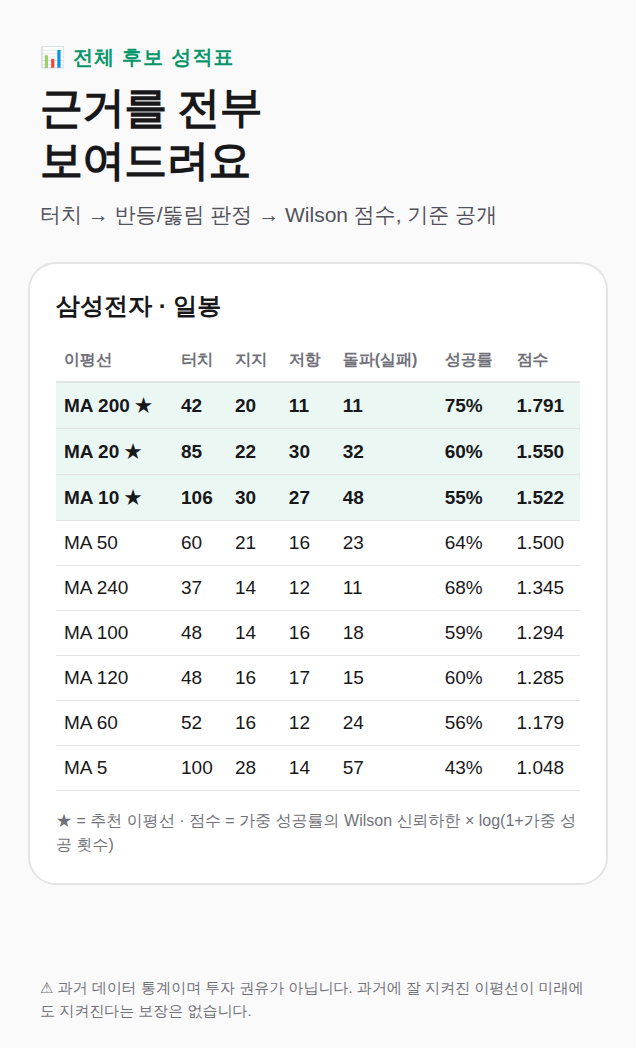
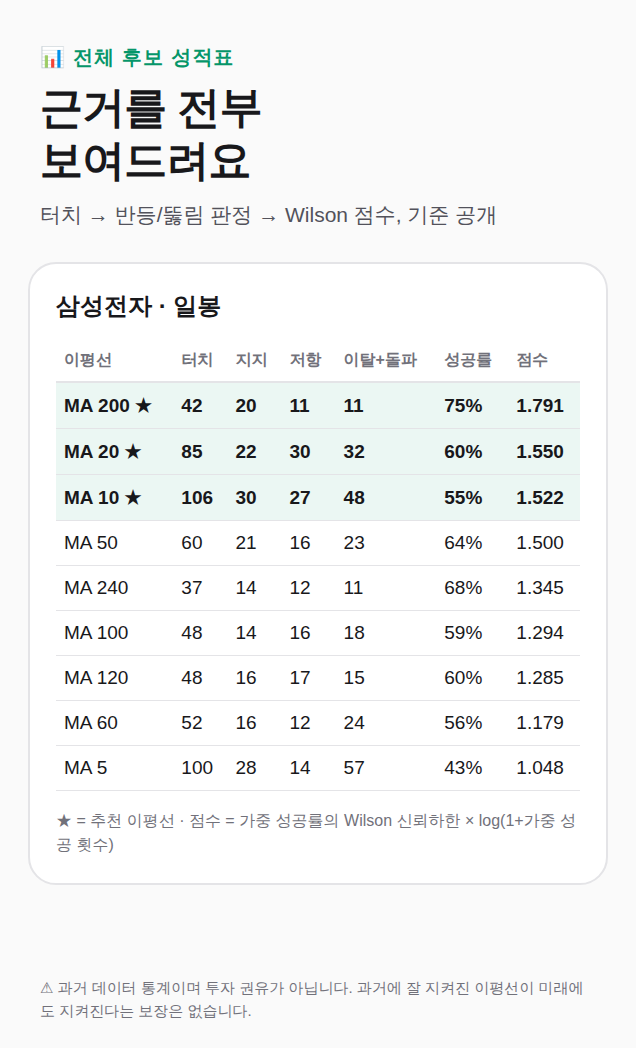
화면 최종 점검 반영: 좁은 폰 레이아웃·문구 일관성·터치 영역 개선
멀티 관점 리뷰에서 확정된 지적을 수정:
- RadarPage 헤더 좌측 View 에 flexShrink 추가 — 좁은 폰에서 부제가
  '지지선 터치' 버튼을 밀어내던 문제 (screener 와 동일 패턴으로 통일)
- 검색 자동완성 행: 종목명 flexShrink:1 / 코드 flexShrink:0 로,
  긴 종목명이 코드·시장 표기를 밀어내지 않게
- 성적표 컬럼 '돌파(실패)' → '이탈+돌파' — 카드의 '돌파'(상승 신호)와
  의미가 충돌하던 라벨 정리 (스크린샷 스크립트 헤더도 동일 반영)
- 홈 이동 버튼 '오늘의 터치' → '지지선 터치' — 화면 제목과 명칭 통일
- 스크리너 '새로고침'·'이평선 분석 →' 링크에 hitSlop 추가 (터치 영역 확대)
- 성적표 라벨 변경으로 portrait-2-score 스크린샷 재생성

Claude-Session: https://claude.ai/code/session_01SVmEkbyC5jMVqJE4APrx2j

diff --git a/apps-in-toss/src/pages/index.tsx b/apps-in-toss/src/pages/index.tsx
@@ -224,7 +224,7 @@ function RadarPage() {
       keyboardShouldPersistTaps="handled"
     >
       <View style={{ flexDirection: 'row', alignItems: 'center', justifyContent: 'space-between' }}>
-        <View>
+        <View style={{ flexShrink: 1, paddingRight: 8 }}>
           <Text style={{ fontSize: 22, fontWeight: '800', color: p.text }}>📈 이평선 레이더</Text>
           <Text style={{ fontSize: 12, color: p.sub, marginTop: 2 }}>
             자주 지켜진 지지/저항 이평선을 백테스트로 찾아드려요
@@ -242,7 +242,7 @@ function RadarPage() {
             paddingHorizontal: 10,
           }}
         >
-          <Text style={{ fontSize: 12, color: p.text, fontWeight: '600' }}>🚨 오늘의 터치</Text>
+          <Text style={{ fontSize: 12, color: p.text, fontWeight: '600' }}>🚨 지지선 터치</Text>
         </TouchableOpacity>
       </View>
 
@@ -281,10 +281,10 @@ function RadarPage() {
                   backgroundColor: p.card,
                 }}
               >
-                <Text style={{ fontSize: 14, color: p.text }} numberOfLines={1}>
+                <Text style={{ fontSize: 14, color: p.text, flexShrink: 1, marginRight: 8 }} numberOfLines={1}>
                   {item.name}
                 </Text>
-                <Text style={{ fontSize: 12, color: p.faint }}>
+                <Text style={{ fontSize: 12, color: p.faint, flexShrink: 0 }} numberOfLines={1}>
                   {item.symbol}
                   {item.market ? ` · ${item.market}` : ''}
                 </Text>

diff --git a/apps-in-toss/src/pages/screener.tsx b/apps-in-toss/src/pages/screener.tsx
@@ -237,7 +237,11 @@ function ScreenerPage() {
           <View style={{ flexDirection: 'row', alignItems: 'center', justifyContent: 'space-between' }}>
             <Text style={{ fontSize: 11, color: p.faint, flexShrink: 1 }}>{statusText(body)}</Text>
             {!body.partial && !body.refreshing ? (
-              <TouchableOpacity onPress={() => void load(market, false)} accessibilityRole="button">
+              <TouchableOpacity
+                onPress={() => void load(market, false)}
+                accessibilityRole="button"
+                hitSlop={{ top: 10, bottom: 10, left: 10, right: 10 }}
+              >
                 <Text style={{ fontSize: 12, color: p.indigo, fontWeight: '600' }}>새로고침</Text>
               </TouchableOpacity>
             ) : null}
@@ -304,7 +308,11 @@ function ScreenerPage() {
                   colors={{ up: p.up, down: p.down, grid: p.grid, text: p.faint }}
                   showPriceAxis={false}
                 />
-                <TouchableOpacity onPress={() => openRadar(m)} accessibilityRole="button">
+                <TouchableOpacity
+                  onPress={() => openRadar(m)}
+                  accessibilityRole="button"
+                  hitSlop={{ top: 10, bottom: 10, left: 10, right: 10 }}
+                >
                   <Text style={{ fontSize: 13, color: p.indigo, fontWeight: '600' }}>이평선 분석 →</Text>
                 </TouchableOpacity>
               </Card>

diff --git a/apps-in-toss/src/components/ScoreTable.tsx b/apps-in-toss/src/components/ScoreTable.tsx
@@ -12,14 +12,15 @@ interface Props {
   palette: Palette;
 }
 
-// '돌파(실패)' = 위/아래로 뚫린 횟수 합계 — 웹 성적표와 같은 표기.
-// 카드의 '돌파'(저항을 위로 뚫음, 상승성)와 헷갈리지 않게 (실패)를 꼭 붙인다.
+// '이탈+돌파' = 위/아래로 뚫린 횟수 합계. 추천 카드는 지지 이탈(하락)을 '이탈',
+// 저항 돌파(상승)를 '돌파'로 따로 표기하므로, 그 둘의 합계인 이 열도 '이탈+돌파'로
+// 불러 카드와 용어를 맞춘다('돌파' 단독으로 쓰면 카드의 상승 신호와 혼동된다).
 const COLS: { key: string; label: string; width: number }[] = [
   { key: 'ma', label: '이평선', width: 76 },
   { key: 'touches', label: '터치', width: 64 },
   { key: 'support', label: '지지', width: 44 },
   { key: 'resist', label: '저항', width: 44 },
-  { key: 'breaks', label: '돌파(실패)', width: 68 },
+  { key: 'breaks', label: '이탈+돌파', width: 68 },
   { key: 'undecided', label: '미확정', width: 52 },
   { key: 'rate', label: '성공률', width: 56 },
   { key: 'score', label: '점수', width: 56 },
